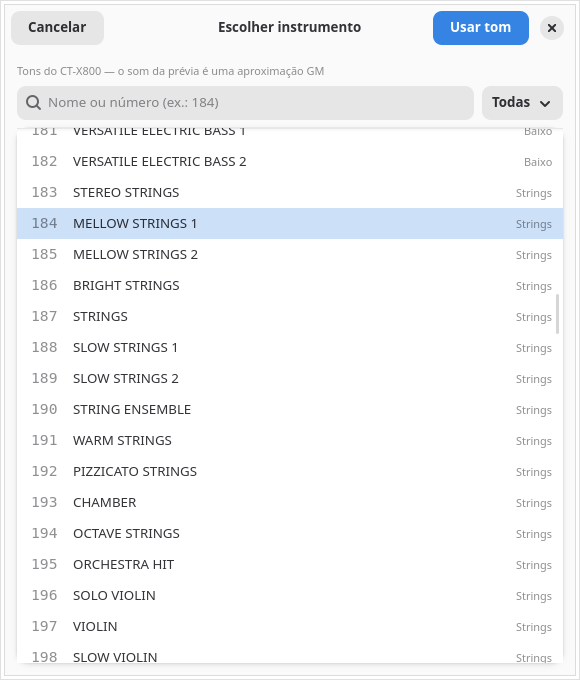
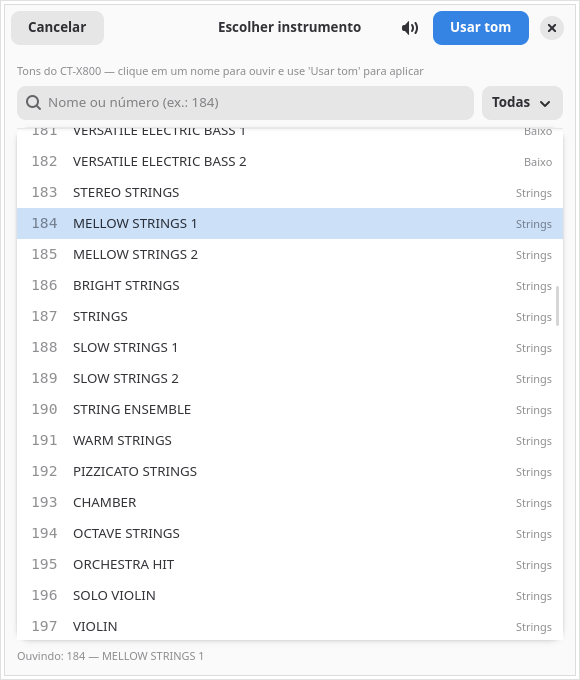
Adiciona prévia de áudio dos instrumentos ao clicar no nome

diff --git a/audio.py b/audio.py
@@ -18,6 +18,7 @@ gi.require_version("Gst", "1.0")
 from gi.repository import GLib, Gst  # noqa: E402
 
 from model import PPQ, Project, TICKS_PER_STEP  # noqa: E402
+from tones import Tone  # noqa: E402
 
 SOUNDFONTS = (
     Path("/usr/share/sounds/sf2/default-GM.sf2"),
@@ -355,3 +356,168 @@ class AudioEngine:
             pass
         if self.on_finished:
             self.on_finished()
+
+
+class TonePreview:
+    """Toca uma frase curta para ouvir o timbre escolhido no seletor."""
+
+    def __init__(self) -> None:
+        self.cache_dir = Path(GLib.get_user_cache_dir()) / "ctx800-editor"
+        self.cache_dir.mkdir(parents=True, exist_ok=True)
+        self._playing = False
+
+        Gst.init(None)
+        self._player = Gst.ElementFactory.make("playbin", "ctx800-tone-preview")
+        if self._player is None:
+            raise AudioError("GStreamer playbin não está disponível.")
+        try:
+            self._player.set_property("volume", 0.8)
+        except Exception:
+            pass
+        self._bus = self._player.get_bus()
+        self._bus.add_signal_watch()
+        self._bus.connect("message", self._on_bus_message)
+
+    # ------------------------------------------------------------- frase
+    @staticmethod
+    def _notes(tone: Tone) -> list[tuple[int, int, int, int]]:
+        """(início, nota, duração, velocidade) em ticks de 1/480."""
+        if tone.drum:
+            return [
+                (0, 35, 120, 115), (0, 42, 120, 70),
+                (240, 42, 120, 60), (480, 38, 120, 100),
+                (480, 42, 120, 70), (720, 42, 120, 60),
+                (960, 35, 120, 105), (960, 42, 120, 70),
+                (1200, 42, 120, 60), (1440, 38, 120, 95),
+                (1440, 42, 120, 70), (1680, 42, 120, 60),
+            ]
+        if tone.category == 5:  # baixo: notas separadas, sem acorde
+            return [(0, 36, 480, 100), (480, 43, 480, 95),
+                    (960, 48, 720, 100)]
+        if tone.category in (4, 10):  # guitarra/synth: arpejo
+            return [(0, 60, 480, 90), (240, 64, 480, 85),
+                    (480, 67, 480, 85), (720, 72, 720, 90)]
+        if tone.category in (7, 8, 9):  # metais/sopro: melodia curta
+            return [(0, 60, 480, 90), (480, 64, 480, 90),
+                    (960, 67, 720, 90)]
+        # piano, strings, pads, órgão etc.: acorde sustentado + brilho
+        return [
+            (0, 60, 1440, 90), (0, 64, 1440, 85),
+            (0, 67, 1440, 85), (960, 72, 480, 75),
+        ]
+
+    def _midi(self, tone: Tone, path: Path) -> None:
+        mid = MidiFile(ticks_per_beat=PPQ)
+        conductor = MidiTrack()
+        mid.tracks.append(conductor)
+        conductor.append(MetaMessage("time_signature", numerator=4,
+                                     denominator=4, time=0))
+        conductor.append(MetaMessage("set_tempo", tempo=bpm2tempo(120),
+                                     time=0))
+        conductor.append(MetaMessage("marker", text="end", time=1920))
+        track = MidiTrack()
+        mid.tracks.append(track)
+        channel = 9 if tone.drum else 0
+        track.append(Message("program_change", channel=channel,
+                             program=tone.program, time=0))
+        track.append(Message("control_change", channel=channel, control=7,
+                             value=100, time=0))
+        track.append(Message("control_change", channel=channel, control=10,
+                             value=64, time=0))
+        track.append(Message("control_change", channel=channel, control=91,
+                             value=40, time=0))
+        events: list[tuple[int, int, Message]] = []
+        for start, pitch, length, velocity in self._notes(tone):
+            events.append((start, 1, Message(
+                "note_on", channel=channel, note=pitch, velocity=velocity)))
+            events.append((start + length, 0, Message(
+                "note_off", channel=channel, note=pitch, velocity=0)))
+        events.sort(key=lambda item: (item[0], item[1]))
+        last = 0
+        for tick, _priority, message in events:
+            track.append(message.copy(time=max(0, tick - last)))
+            last = tick
+        track.append(MetaMessage("end_of_track", time=max(0, 1920 - last)))
+        mid.save(path)
+
+    def render(self, tone: Tone) -> Path:
+        final = self.cache_dir / f"audition_{tone.number:03d}.wav"
+        if final.is_file() and final.stat().st_size > 1024:
+            return final
+        mid_fd, mid_name = tempfile.mkstemp(prefix="audition_", suffix=".mid",
+                                            dir=self.cache_dir)
+        wav_fd, wav_name = tempfile.mkstemp(prefix="audition_", suffix=".raw.wav",
+                                            dir=self.cache_dir)
+        os.close(wav_fd)
+        mid_path = Path(mid_name)
+        raw_wav = Path(wav_name)
+        try:
+            self._midi(tone, mid_path)
+            command = [
+                "fluidsynth", "-ni", "-q", "-g", "0.75", "-r", "44100",
+                "-T", "wav", "-F", str(raw_wav), str(_soundfont()),
+                str(mid_path),
+            ]
+            try:
+                proc = subprocess.run(command, capture_output=True, text=True,
+                                      timeout=30)
+            except FileNotFoundError as exc:
+                raise AudioError(
+                    "FluidSynth não encontrado. Instale o pacote fluidsynth."
+                ) from exc
+            except subprocess.TimeoutExpired as exc:
+                raise AudioError("A prévia do instrumento demorou demais.") from exc
+            if proc.returncode != 0:
+                detail = (proc.stderr or proc.stdout or "").strip().splitlines()
+                last = detail[-1] if detail else "erro desconhecido"
+                raise AudioError(f"FluidSynth falhou: {last}")
+            _trim_wav(raw_wav, final, 2.2)
+        finally:
+            for tmp in (mid_path, raw_wav):
+                try:
+                    tmp.unlink(missing_ok=True)
+                except OSError:
+                    pass
+        self._cleanup()
+        return final
+
+    def _cleanup(self) -> None:
+        try:
+            files = sorted(self.cache_dir.glob("audition_*.wav"),
+                           key=lambda p: p.stat().st_mtime, reverse=True)
+            for old in files[30:]:
+                old.unlink(missing_ok=True)
+        except OSError:
+            pass
+
+    # ------------------------------------------------------------- playback
+    def play(self, tone: Tone) -> None:
+        wav = self.render(tone)
+        self.stop()
+        self._player.set_property("uri", wav.resolve().as_uri())
+        if self._player.set_state(Gst.State.PLAYING) == Gst.StateChangeReturn.FAILURE:
+            self._player.set_state(Gst.State.NULL)
+            raise AudioError("Não foi possível tocar a prévia do instrumento.")
+        self._playing = True
+
+    def stop(self) -> None:
+        self._playing = False
+        try:
+            self._player.set_state(Gst.State.NULL)
+        except Exception:
+            pass
+
+    def close(self) -> None:
+        self.stop()
+        try:
+            self._bus.remove_signal_watch()
+        except Exception:
+            pass
+
+    def _on_bus_message(self, _bus, message) -> None:
+        if message.type in (Gst.MessageType.EOS, Gst.MessageType.ERROR):
+            self._playing = False
+            try:
+                self._player.set_state(Gst.State.NULL)
+            except Exception:
+                pass

diff --git a/instruments.py b/instruments.py
@@ -9,6 +9,7 @@ gi.require_version("Pango", "1.0")
 
 from gi.repository import Adw, GLib, Gtk, Pango  # noqa: E402
 
+from audio import AudioError, TonePreview  # noqa: E402
 from tones import (  # noqa: E402
     CATEGORY_LABELS, Tone, category_label, drum_tones, melodic_tones,
 )
@@ -26,6 +27,14 @@ class InstrumentDialog(Adw.Window):
         self.on_selected = on_selected
         self._tones = drum_tones() if part.drum else melodic_tones()
         self._category = None
+        self._suppress_preview = True
+        self._preview_timeout: int | None = None
+        self.preview: TonePreview | None = None
+        self._preview_error = ""
+        try:
+            self.preview = TonePreview()
+        except Exception as exc:
+            self._preview_error = str(exc)
 
         toolbar = Adw.ToolbarView()
         header = Gtk.HeaderBar()
@@ -37,6 +46,12 @@ class InstrumentDialog(Adw.Window):
         accept.connect("clicked", lambda _b: self._accept_selected())
         header.pack_end(accept)
         self._accept_button = accept
+
+        listen = Gtk.Button.new_from_icon_name("audio-volume-high-symbolic")
+        listen.set_tooltip_text("Ouvir o instrumento selecionado")
+        listen.connect("clicked", lambda _b: self._play_selected_now())
+        header.pack_end(listen)
+        self._listen_button = listen
         toolbar.add_top_bar(header)
 
         content = Gtk.Box(orientation=Gtk.Orientation.VERTICAL, spacing=8)
@@ -46,8 +61,11 @@ class InstrumentDialog(Adw.Window):
         content.set_margin_end(12)
 
         hint = Gtk.Label(
-            label=("Kit de bateria" if part.drum
-                   else "Tons do CT-X800 — o som da prévia é uma aproximação GM"),
+            label=("Kit de bateria — clique em um nome para ouvir e use "
+                   "'Usar tom' para aplicar"
+                   if part.drum
+                   else "Tons do CT-X800 — clique em um nome para ouvir e use "
+                   "'Usar tom' para aplicar"),
             xalign=0,
         )
         hint.add_css_class("caption")
@@ -79,10 +97,10 @@ class InstrumentDialog(Adw.Window):
 
         self.listbox = Gtk.ListBox()
         self.listbox.set_selection_mode(Gtk.SelectionMode.SINGLE)
+        self.listbox.set_activate_on_single_click(True)
         self.listbox.set_filter_func(self._filter_row)
         self.listbox.connect("row-activated", self._on_row_activated)
-        self.listbox.connect(
-            "row-selected", lambda _list, _row: self._update_accept())
+        self.listbox.connect("row-selected", self._on_row_selected)
         self.rows: list[Gtk.ListBoxRow] = []
         selected_row = None
         for tone in self._tones:
@@ -121,8 +139,19 @@ class InstrumentDialog(Adw.Window):
         self._scroller = scroller
         self._selected_row = selected_row
 
+        self.preview_status = Gtk.Label(
+            label=("Clique em um nome para ouvir" if self.preview is not None
+                   else f"Prévia de áudio indisponível: {self._preview_error}"),
+            xalign=0,
+        )
+        self.preview_status.add_css_class("caption")
+        self.preview_status.add_css_class("dim-label")
+        self.preview_status.set_ellipsize(Pango.EllipsizeMode.END)
+        content.append(self.preview_status)
+
         toolbar.set_content(content)
         self.set_content(toolbar)
+        self.connect("close-request", self._on_close_request)
 
         if selected_row is not None:
             self.listbox.select_row(selected_row)
@@ -132,13 +161,69 @@ class InstrumentDialog(Adw.Window):
     def _scroll_to_selected(self) -> bool:
         row = self._selected_row
         if row is None:
+            self._suppress_preview = False
             return GLib.SOURCE_REMOVE
         self.listbox.select_row(row)
         row.grab_focus()
         allocation = row.get_allocation()
         adjustment = self._scroller.get_vadjustment()
         adjustment.set_value(max(0, allocation.y - 80))
+        self._suppress_preview = False
         return GLib.SOURCE_REMOVE
+
+    def _on_row_selected(self, _listbox, row: Gtk.ListBoxRow | None) -> None:
+        self._update_accept()
+        if self._suppress_preview or row is None or self.preview is None:
+            return
+        tone = getattr(row, "tone", None)
+        if tone is None:
+            return
+        if self._preview_timeout is not None:
+            try:
+                GLib.source_remove(self._preview_timeout)
+            except Exception:
+                pass
+        self._preview_timeout = GLib.timeout_add(
+            120, self._play_preview, tone)
+
+    def _play_preview(self, tone: Tone) -> bool:
+        self._preview_timeout = None
+        if self.preview is None:
+            return GLib.SOURCE_REMOVE
+        self.preview_status.set_text(f"Ouvindo: {tone.label}")
+        try:
+            self.preview.play(tone)
+        except AudioError as exc:
+            self.preview_status.set_text(f"Prévia indisponível: {exc}")
+        return GLib.SOURCE_REMOVE
+
+    def _play_now(self, tone: Tone) -> None:
+        if self._preview_timeout is not None:
+            try:
+                GLib.source_remove(self._preview_timeout)
+            except Exception:
+                pass
+            self._preview_timeout = None
+        self._play_preview(tone)
+
+    def _play_selected_now(self) -> None:
+        row = self.listbox.get_selected_row()
+        if row is None:
+            return
+        tone = getattr(row, "tone", None)
+        if tone is not None:
+            self._play_now(tone)
+
+    def _on_close_request(self, *_args) -> bool:
+        if self._preview_timeout is not None:
+            try:
+                GLib.source_remove(self._preview_timeout)
+            except Exception:
+                pass
+            self._preview_timeout = None
+        if self.preview is not None:
+            self.preview.close()
+        return False
 
     # ------------------------------------------------------------- filtros
     def _invalidate(self) -> None:
@@ -174,7 +259,7 @@ class InstrumentDialog(Adw.Window):
     def _on_row_activated(self, _listbox, row: Gtk.ListBoxRow) -> None:
         tone = getattr(row, "tone", None)
         if tone is not None:
-            self._accept(tone)
+            self._play_now(tone)
 
     def _accept_selected(self) -> None:
         row = self.listbox.get_selected_row()

diff --git a/main.py b/main.py
@@ -763,6 +763,7 @@ class EditorWindow(Adw.ApplicationWindow):
         self._set_status("Alterado. Não esqueça de salvar.")
 
     def _choose_instrument(self) -> None:
+        self._stop_playback()
         number = self.current_part_number
         part = self.project.part(number)
         dialog = InstrumentDialog(
@@ -776,6 +777,7 @@ class EditorWindow(Adw.ApplicationWindow):
         if self._mixer_dialog is not None:
             self._mixer_dialog.present()
             return
+        self._stop_playback()
         dialog = MixerDialog(self, self.project, self._on_mixer_changed)
         self._mixer_dialog = dialog
         dialog.connect("close-request", self._on_mixer_closed)

diff --git a/README.md b/README.md
@@ -106,7 +106,9 @@ Depois é só procurar por **Editor de Ritmos CT-X800** no menu, ou rodar
 Cada parte guarda um **tom Casio** (número, program change e bank select MSB).
 O AC7 exportado usa exatamente esses valores; no teclado, o timbre é o real.
 
-No seletor dá para buscar pelo nome ou número e filtrar por categoria:
+No seletor dá para buscar pelo nome ou número e filtrar por categoria.
+**Clique em um nome para ouvir uma frase curta** com o timbre; o botão de
+alto-falante repete o tom selecionado e **Usar tom** aplica o instrumento.
 
 ![Seletor de instrumento](docs/instrument-picker.png)
 
